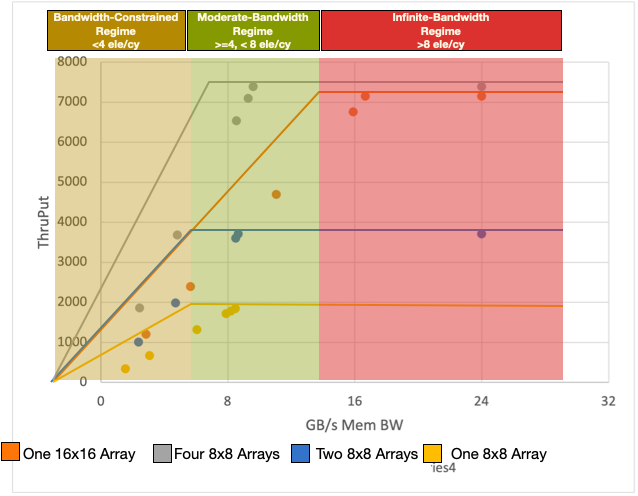
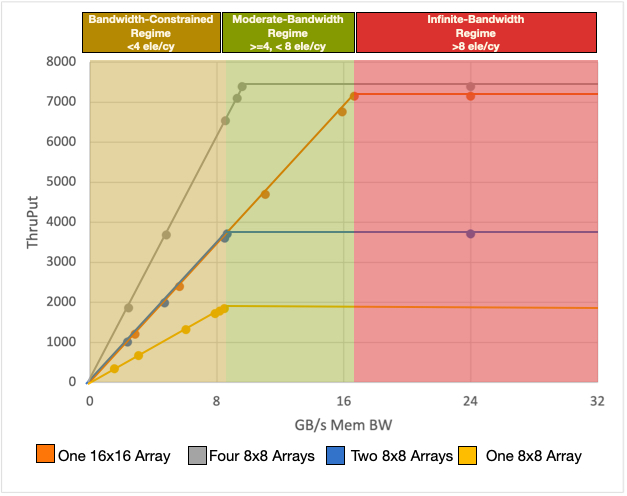
readme

diff --git a/README.md b/README.md
@@ -11,6 +11,39 @@ of systolic arrays under memory bandwidth limitations so we thought it would be 
 [Roofline models](https://en.wikipedia.org/wiki/Roofline_model) are a way of modeling bottlenecks in throughput-oriented
 systems and showing this "regime" change between memory bound and computationally bound programs. Theoretically then,
 given the Bytes-per-OP for a program, we can know roughly how it will behave on the architecture. For the case of
-output stationary systolic arrays, we can look at the following plot.
+output stationary systolic arrays, consider steady state: where activation inputs (A in an A x B matrix multiply) are
+fully buffered and we are just streaming in weights (B). The maximum rate that a systolic array in such a circumstance
+can consume is `S x w` bits per cycle for w-bit operands and a S x S systolic array. So then now we have a pretty
+good estimate of where this regime change is.
 
-![](img/roofline-alone.jpg)
+What happens when we make our systolic array bigger (2X in each dimension)?
+1. Each operand read from memory is re-used 2X 
+2. Maximum flops/cy increased by 4X
+3. The required steady-state memory bandwidth doubles.
+4. The area of the array is 4X
+5. Fill and Drain penalties increased by 2X
+
+This is great - by increasing our computational bandwidth by 4X, we're also getting more efficient compute by reading
+less from memory. This is why we see current systolic array architectures feature so few systolic arrays.
+
+Unfortunately, we might not always have twice the memory bandwidth to afford this. What's more, with
+certain network structures (ex. multi-head attention), fill and drain penalties become significant overheads.
+This is also why we see systolic array architectures (ex. TPU) excel at CNNs but lag behind GPUs when it comes
+to attention-based networks.
+
+<p align="center">
+![](img/layout.jpg)
+</p>
+
+ProSE proposes the use of a series of lock-step, smaller systolic arrays with the following repercussions.
+1. Weights are broadcasted to each systolic array, increasing memory re-use even for smaller arrays.
+2. Using a series of smaller arrays reduces fill and drain penalties.
+3. For the same number of compute units, this arrangement uses 2X as much SRAM for buffering but requires
+    only half the memory bandwidth.
+
+Regarding point 3, this may seem to be a problem, but we think it's a pretty decent tradeoff: SRAM is
+extremely dense and off-chip memory bandwidth is expensive and, itself, requires significant area for
+controllers. We present these results in a roofline plot collected from simulation using [DRAMsim3](https://github.com/umd-memsys/DRAMsim3)
+for off-chip memory modeling.
+
+![](img/roofline.jpg)
